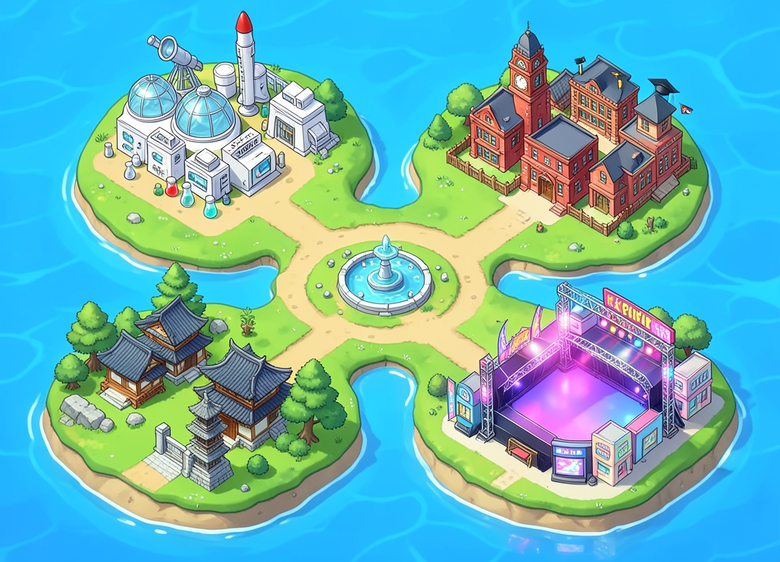
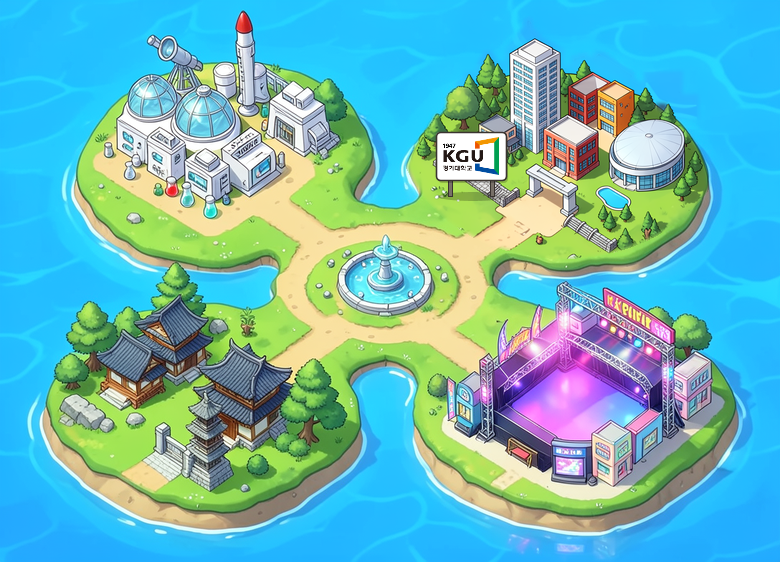
feat(view): 도감 지도의 교수님 섬을 경기대 캠퍼스와 공식 로고 간판으로 바꾸기
- 오른쪽 위 섬만 경기대 수원캠퍼스 느낌(진리관 탑, 빨간 도서관, 둥근 컨벤션홀, 정문·계단·호수)으로 다시 그렸다. 섬 모양과 다른 섬은 그대로다.
- 경기대 홈페이지(대학소개 › 경기대학교 UI)의 공식 1947 로고(국문 세로형)를 간판으로 얹었다.
- 잠겼을 때 조건 안내를 자물쇠 위로 옮겨 로고 간판을 가리지 않게 했다.

Claude-Session: https://claude.ai/code/session_01X8Mt1MYQpcsAUQ9WTPtDkn

Changed region(s): [[0.5231, 0.0605, 0.9231, 0.4537]]

diff --git a/src/main/java/org/kgu/collection/view/CardArt.java b/src/main/java/org/kgu/collection/view/CardArt.java
@@ -222,9 +222,9 @@ public final class CardArt {
         Rectangle b = map.get().villageBounds(lockedVillage);
         float s = w / 780f;
         int cx = b.x + b.width / 2, cy = b.y + b.height * 3 / 10;
-        if (unlock <= 0) {  // 자물쇠 바로 아래, 마을 이름표보다 위
+        if (unlock <= 0) {  // 자물쇠 바로 위: 아래쪽엔 경기대 로고 간판과 마을 이름표가 있다
             g.setFont(UiStyle.FONT.deriveFont(Font.BOLD, 12f * s));
-            int tw = g.getFontMetrics().stringWidth(hint) + Math.round(24 * s), th = Math.round(26 * s), ty = cy + Math.round(38 * s);
+            int tw = g.getFontMetrics().stringWidth(hint) + Math.round(24 * s), th = Math.round(26 * s), ty = cy - Math.round(46 * s) - th;
             UiStyle.round(g, cx - tw / 2, ty, tw, th, th, new Color(16, 28, 56, 220));
             g.setColor(Color.WHITE);
             UiStyle.center(g, hint, cx, ty + th / 2 + g.getFontMetrics().getAscent() / 2 - Math.round(2 * s));
